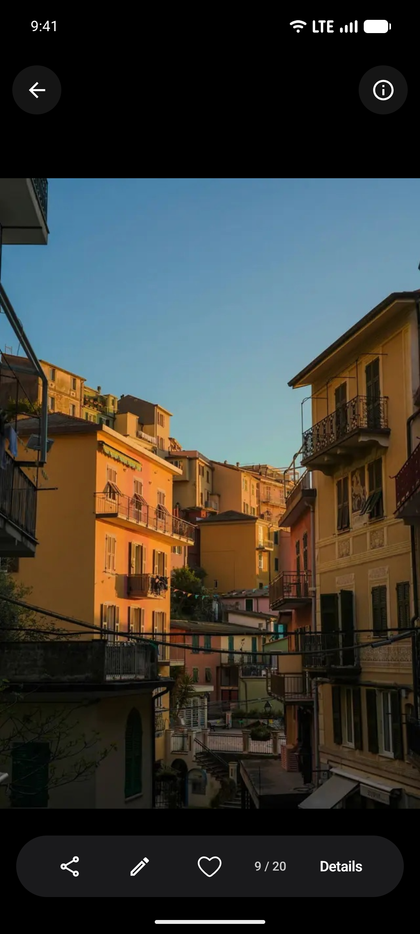
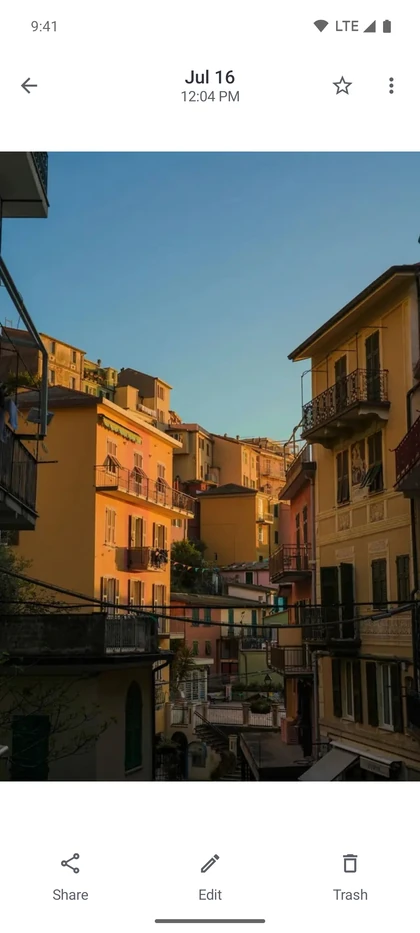
chore: refresh gallery screenshots and store artwork

diff --git a/app/src/androidTest/java/dev/mela/app/StoreScreenshotTest.kt b/app/src/androidTest/java/dev/mela/app/StoreScreenshotTest.kt
@@ -48,7 +48,8 @@ class StoreScreenshotTest {
     }
     private fun open(id: String) {
         compose.scrollToGalleryMedia(id)
-        compose.onNodeWithTag("media-$id").performClick()
+        // A scrolled cell can sit beneath the date pill; invoke the cell's own action.
+        compose.onNodeWithTag("media-$id").performSemanticsAction(androidx.compose.ui.semantics.SemanticsActions.OnClick) { it() }
         compose.waitUntil(15_000) { compose.onAllNodesWithTag(if (id == "fixture:icloud:0019") "video-player" else "viewer-image-$id").fetchSemanticsNodes().isNotEmpty() }
     }
     @Test fun captureStoreScreens() {
@@ -60,12 +61,20 @@ class StoreScreenshotTest {
         runBlocking {
             repository.observeGallery().first().forEach { repository.ensurePreview(it.id) }
         }
+        compose.onNodeWithTag("gallery-grid").performScrollToIndex(0)
+        capture("00-library-top")
         compose.scrollToGalleryMedia("fixture:icloud:0001")
         capture("01-library")
         open("fixture:icloud:0008")
         capture("02-viewer")
+        compose.onNodeWithText(compose.activity.getString(R.string.viewer_edit)).performClick()
+        compose.waitUntil(15_000) { compose.onAllNodesWithTag("photo-crop").fetchSemanticsNodes().isNotEmpty() }
+        compose.onNodeWithTag("save-edited-copy").assertIsEnabled()
+        capture("05-editor")
+        compose.onNodeWithText(compose.activity.getString(R.string.cancel)).performClick()
         compose.onNodeWithContentDescription("Back to gallery").performClick()
         compose.onNodeWithTag("tab-COLLECTIONS").performClick()
+        capture("03-collections")
         compose.onNodeWithTag("collection-shared").performClick()
         compose.waitUntil(5_000) { compose.onAllNodesWithText("Family moments").fetchSemanticsNodes().isNotEmpty() }
         capture("03-shared-albums")
@@ -80,7 +89,24 @@ class StoreScreenshotTest {
         compose.onNodeWithContentDescription("Back to collections").performClick()
         compose.onNodeWithTag("tab-LIBRARY").performClick()
         open("fixture:icloud:0019")
-        compose.waitUntil(15_000) { compose.onAllNodes(SemanticsMatcher.expectValue(androidx.compose.ui.semantics.SemanticsProperties.StateDescription, "Ready")).fetchSemanticsNodes().isNotEmpty() }
+        compose.waitUntil(15_000) {
+            compose.onAllNodes(SemanticsMatcher.expectValue(androidx.compose.ui.semantics.SemanticsProperties.StateDescription, "Ready") or
+                SemanticsMatcher.expectValue(androidx.compose.ui.semantics.SemanticsProperties.StateDescription, "Playing"))
+                .fetchSemanticsNodes().isNotEmpty()
+        }
+        compose.runOnIdle {
+            fun findPlayer(view: android.view.View): androidx.media3.ui.PlayerView? {
+                if (view is androidx.media3.ui.PlayerView) return view
+                if (view is android.view.ViewGroup) {
+                    for (index in 0 until view.childCount) findPlayer(view.getChildAt(index))?.let { return it }
+                }
+                return null
+            }
+            // Freeze the native player for a repeatable frame with its real controls visible.
+            requireNotNull(findPlayer(compose.activity.window.decorView)?.player).pause()
+        }
+        compose.waitUntil(5_000) { compose.onAllNodesWithTag("video-timeline").fetchSemanticsNodes().isNotEmpty() }
+        compose.onNodeWithTag("video-timeline").performSemanticsAction(androidx.compose.ui.semantics.SemanticsActions.SetProgress) { it(.35f) }
         capture("06-video")
         // Show the production backup settings with a synthetic account, as in
         // ProfileScreenTest. No credentials, Apple requests or backup jobs run.
@@ -95,6 +121,7 @@ class StoreScreenshotTest {
                         state = ICloudAccountState.SignedIn("demo@example.com"),
                         diagnostics = GalleryUiState(
                             accountState = ICloudAccountState.SignedIn("demo@example.com"),
+                            phoneStorage = dev.mela.engine.model.LocalMediaStorage(120_000_000, 480_000_000, 2_400_000_000, 42_000_000_000),
                             accountInfo = AccountInfo(storage = CloudStorageUsage(
                                 72_000_000_000, 200_000_000_000,
                                 listOf(StorageCategory("Photos", 64_000_000_000),
@@ -111,6 +138,13 @@ class StoreScreenshotTest {
                 }
             }
         }
+        capture("07-profile")
+        compose.onNodeWithTag("profile-phone").performScrollTo().performClick()
+        capture("08-phone-settings")
+        androidx.test.espresso.Espresso.pressBack()
+        compose.onNodeWithTag("profile-about").performScrollTo().performClick()
+        capture("09-about")
+        androidx.test.espresso.Espresso.pressBack()
         compose.onNodeWithTag("profile-backup").performScrollTo().performClick()
         compose.onNodeWithText("Set up automatic backup").assertIsDisplayed()
         compose.onNodeWithText("Cloud storage").assertIsDisplayed()

diff --git a/tools/store-screenshots/README.md b/tools/store-screenshots/README.md
@@ -1,6 +1,6 @@
 # Alba store screenshots
 
-Real Android UI captures, composed into six opaque 1080 × 1920 PNGs. Headlines
+Real Android UI captures, composed into five opaque 1080 × 1920 PNGs. Headlines
 and order are editable in `assets/store/screenshots.json`. Each card's `capture`
 identifies the raw frame; its `filename` numbers the export in listing order.
 The layouts take their
@@ -19,14 +19,15 @@ Every heading and pill uses one 80px Google Sans Medium size. Common line boxes
 give all cards the same title baselines, centered above the phone. Plain text is
 black. The library-access card keeps the blue iCloud pill and green Android pill.
 The other cards use distinct shades from Alba’s dawn palette: rose, mauve, violet,
-apricot and indigo. Gradients stay subtle; text and filled
+and indigo. Gradients stay subtle; text and filled
 icons use dark ink on light fills and white on darker fills. The icons are 64px,
 with 32px of left padding.
 Each card's `callouts` identifies the word, line, icon and
 color tone. Words stay in the editable headline; the renderer adds their pills.
 Copy covers iCloud access on Android, photo viewing, Shared Albums with other
-people, a planned backup experience, sharing and video playback. The captures
-include the real Shared Albums list and a populated shared album without selection controls.
+people, a planned backup experience and video playback. The store captures
+include the real Shared Albums list. The album-interior capture is used by the
+README and website, but is not a store card.
 The bundled demo has eight shared albums with multiple photos and a video.
 Its licensed photos mix travel, pets, cafés, friends and everyday moments.
 Library and sharing captures show different parts of that demo.
@@ -37,8 +38,8 @@ selected and no message is sent during capture. Apple's Shared Photo Library is
 a different feature and is not claimed by this listing.
 
 The listing starts with the library-access cover, followed by the Shared Albums
-list and a populated shared album, then backup, the photo viewer and video playback.
-Card 4 replaces the offline artwork with a backup draft. Its actual screen is
+list, then backup, the photo viewer and video playback.
+Card 3 is a backup draft. Its actual screen is
 the Backup page: the existing cloud storage card, a usage bar, category totals,
 available space and current automatic JPEG backup settings. The shared storage
 card keeps its existing account/demo filtering and unavailable-state handling.
@@ -47,7 +48,7 @@ The headline's asterisk explains
 that full backup and automatic space saving are coming soon. The current app's
 Offline collection and backup behavior remain unchanged. The planned card is
 listed separately in the manifest's `plannedFiles`; `readyFiles` excludes it.
-The upload ZIP contains only `readyFiles`. All six design drafts are available
+The upload ZIP contains only `readyFiles`. All five design drafts are available
 in `alba-screenshot-drafts-en-US.zip` under `.artifacts/store-captures`.
 Keep future-feature artwork out of the launch submission until the submitted
 build supports its claims. The coming-soon label is a design disclosure, not
@@ -64,7 +65,9 @@ On the owned disposable emulator, clear `com.mannaworks.mela.dev` app data befor
 capturing so prior UI tests do not leave offline items or selections behind. Run
 `dev.mela.app.StoreScreenshotTest` with `-e captureStoreScreenshots true` alone on a disposable English demo emulator
 with a 1080 × 2400 display. Capture paths are the app's external-files directory,
-`store-screenshots`. Copy the six PNGs into `.artifacts/store-captures/raw`.
+`store-screenshots`. Copy the twelve PNGs into `.artifacts/store-captures/raw`:
+eleven screens used by the README, including the five store frames, plus an
+extra `00-library-top` frame showing the gallery before scrolling.
 Use host GPU/VM acceleration on macOS, verify Apple GPU/Metal after boot, and
 stop the owned emulator when finished. The capture test is for artwork generation;
 it is not a product test to include in every CI run.
@@ -132,4 +135,8 @@ building and recapturing the real Android UI.
 From this folder, run `bun install --frozen-lockfile` and `bun run banner`.
 The generator uses the bundled demo captures in `assets/readme/screens/`, the Alba
 mark and Google Sans to rebuild `assets/readme/banner.webp` at 3200 × 1280.
+To refresh all eleven README screens from new raw captures and rebuild the banner,
+run `bun run banner ../../.artifacts/store-captures/raw`.
+Refresh the website's four screen exports with
+`bun run assets -- /absolute/path/to/raw` from `website/`.
 Edit `render-readme.mjs` to change the layout.

diff --git a/website/README.md b/website/README.md
@@ -17,7 +17,7 @@ The design takes inspiration from CodeEdit's centred hero, compact header, produ
 
 ## Assets
 
-The website uses Alba's approved SVG mark and actual demo-mode app captures. Photo provenance remains documented in [`public/images/demo-media-sources.json`](public/images/demo-media-sources.json); the website ships only compressed screen captures, not new stock photographs. The capture images were exported from the store screenshot worktree on October 1, 2026.
+The website uses Alba's approved SVG mark and actual demo-mode app captures. Photo provenance remains documented in [`public/images/demo-media-sources.json`](public/images/demo-media-sources.json); the website ships only compressed screen captures, not new stock photographs. The captures were refreshed from the committed floating gallery UI on October 2, 2026.
 
 To refresh icon exports: `bun run assets`. To refresh screens too, pass a folder containing the original captures: `bun run assets -- /absolute/path/to/raw`. The input filenames are mapped in `scripts/prepare-assets.mjs`; the checked-in WebP files work without access to that folder.
 
